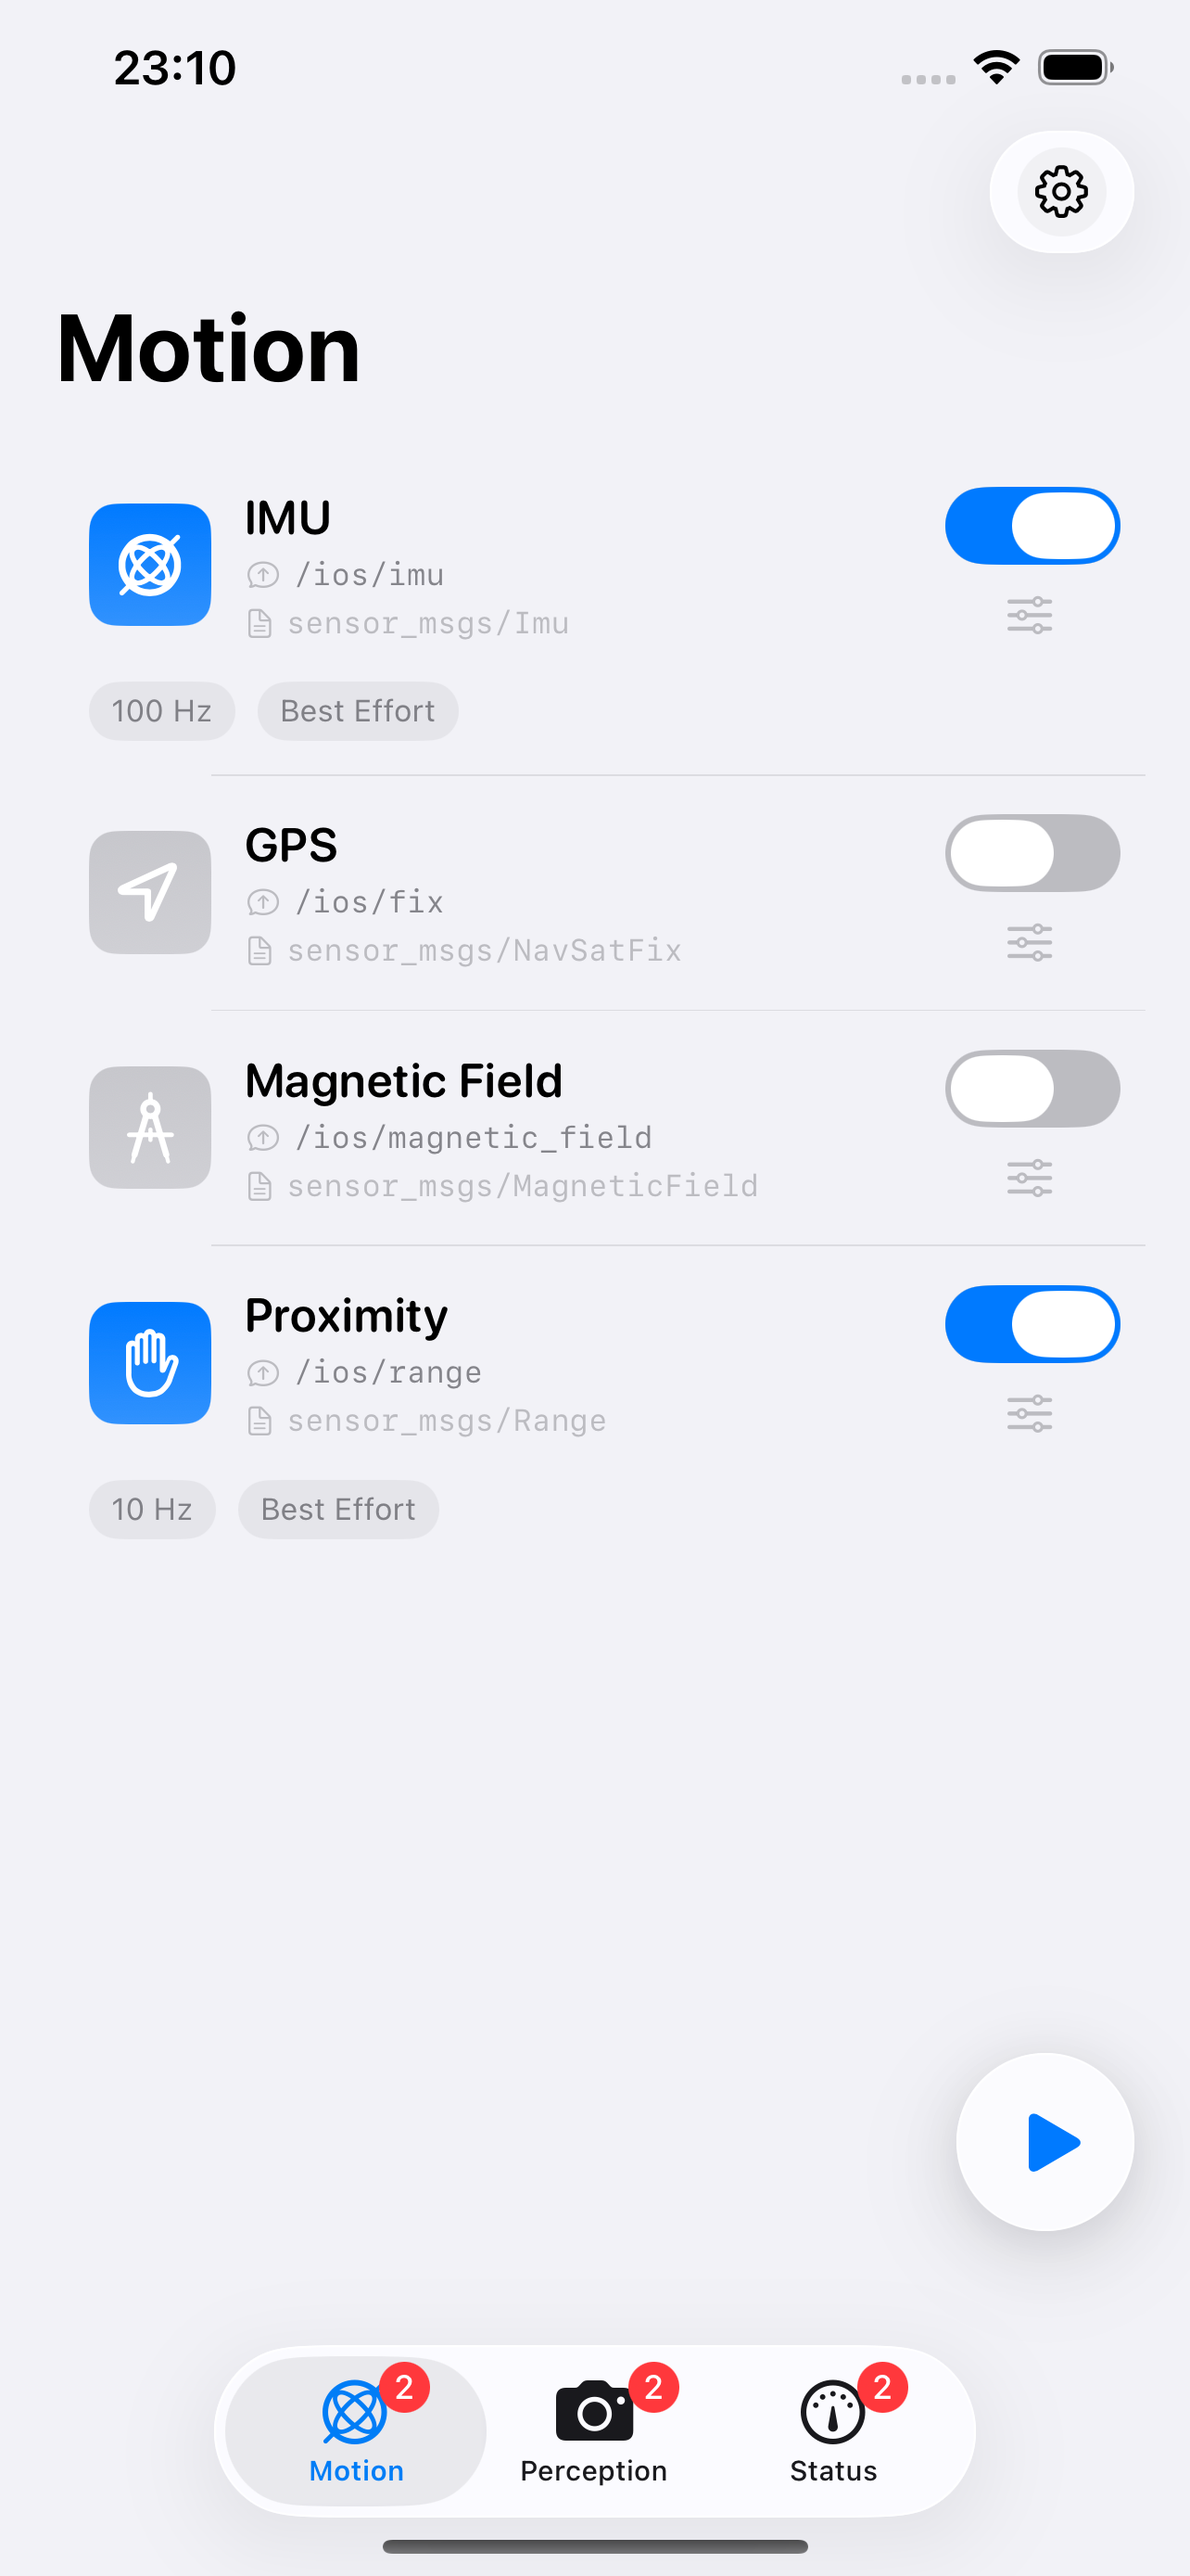
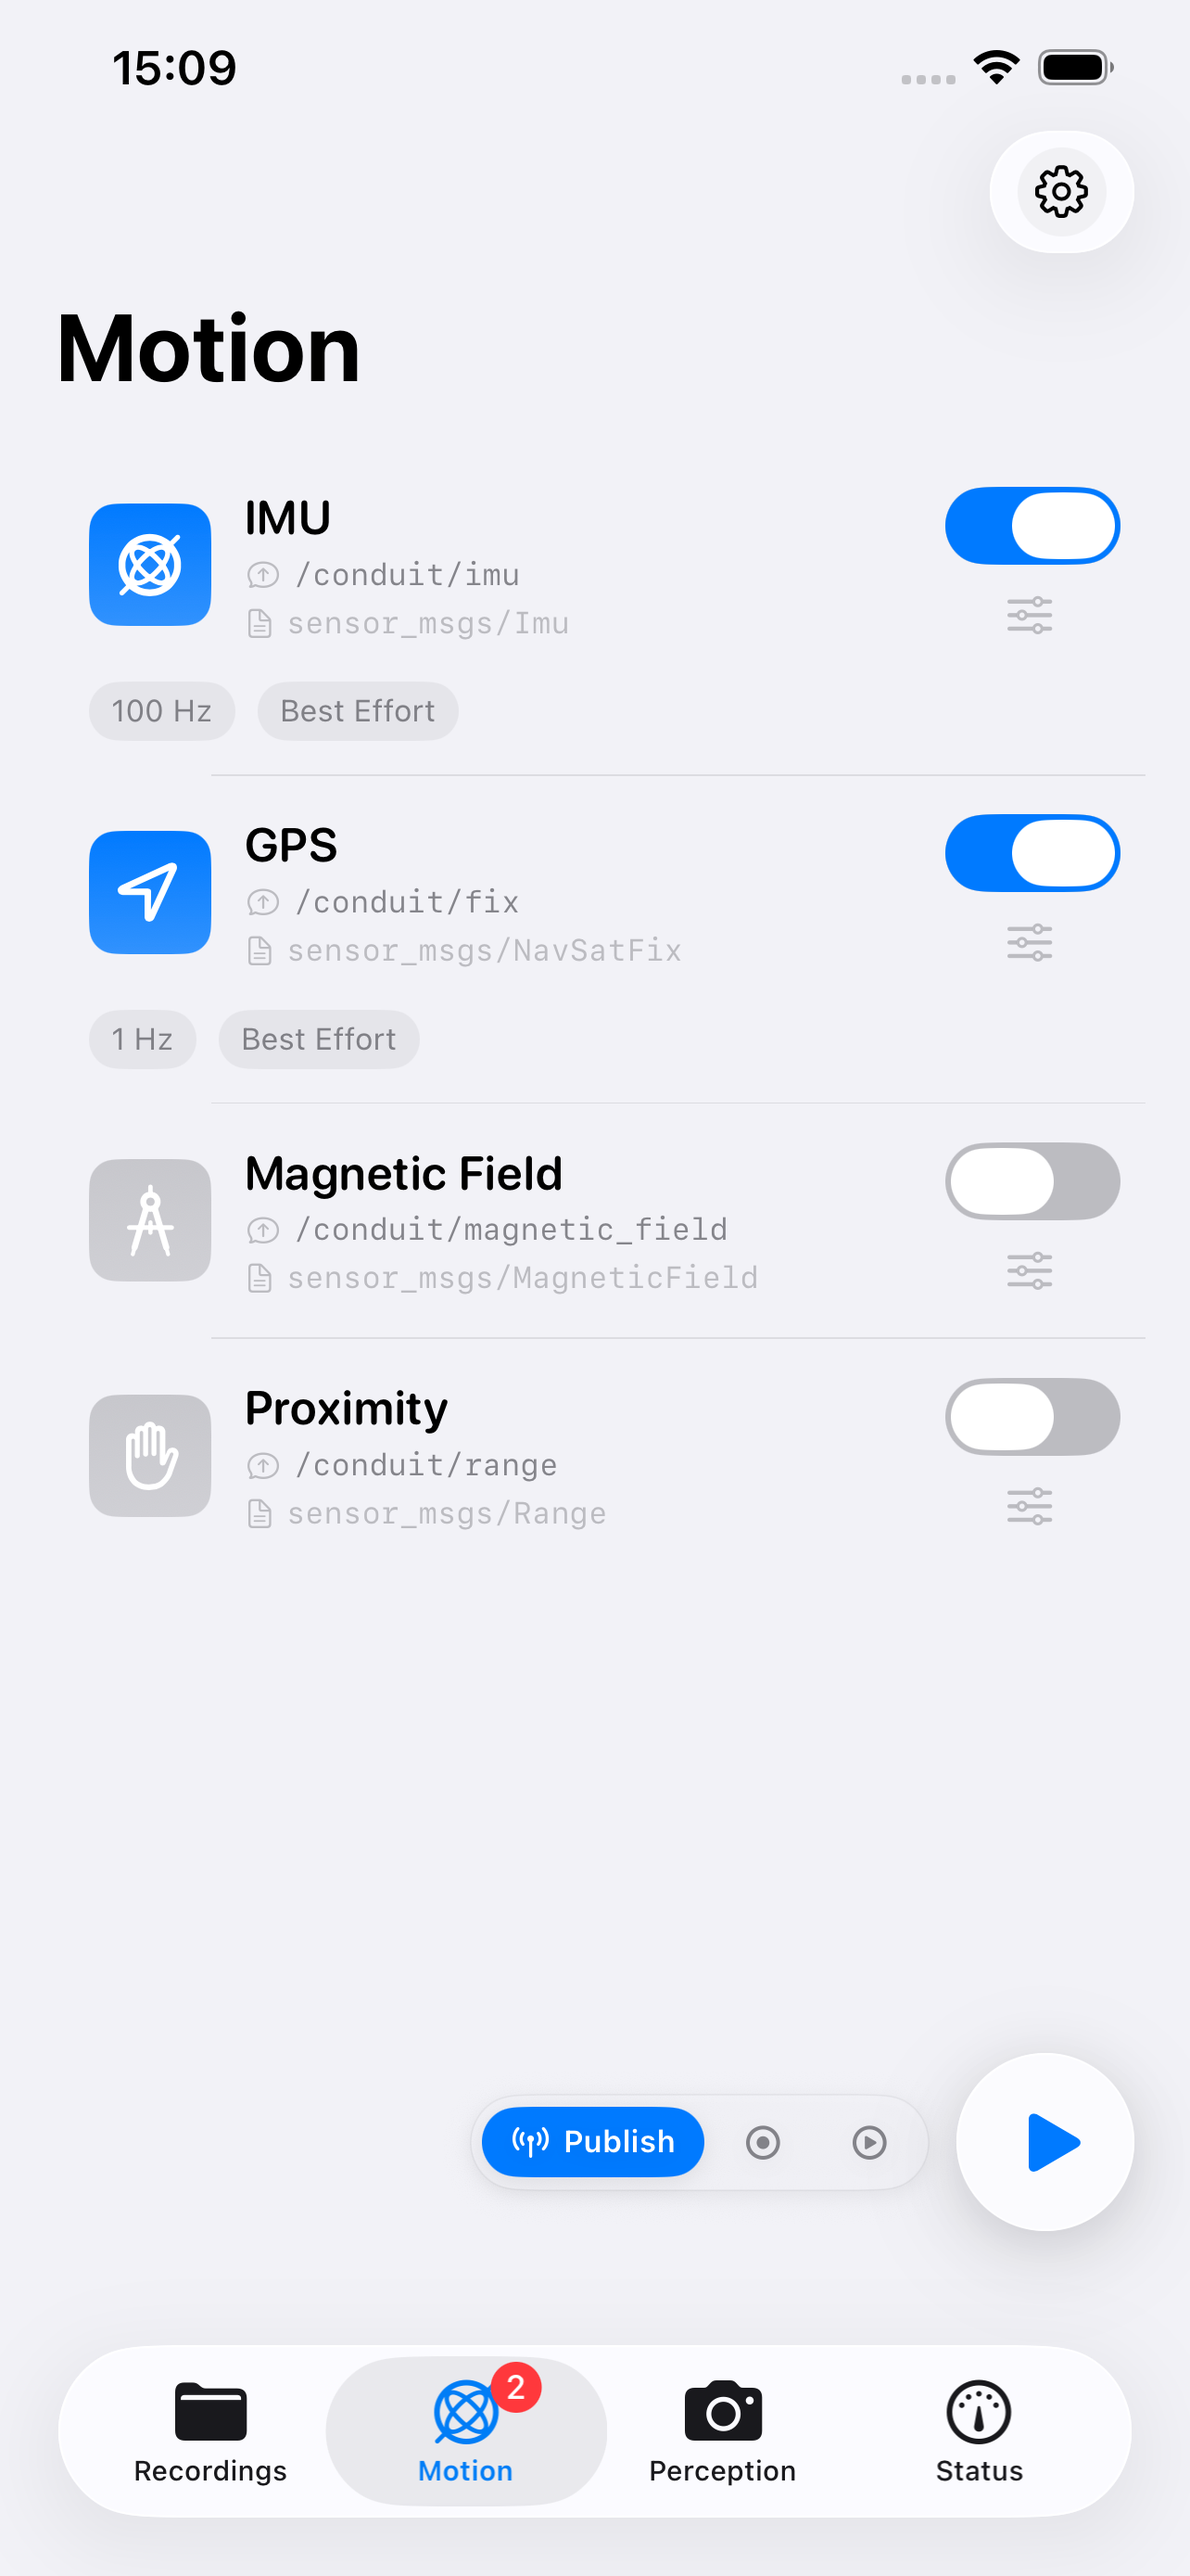
docs: refresh screenshots and tab layout for Conduit 2.2.1
- Add Recordings as a fourth main tab (MCAP capture surfaced from the
  bottom bar).
- Replace the old 3-step "start the Zenoh router" onboarding with the
  current Setup Communication / Switch Transport / Publish-or-Record
  flow, which covers both Zenoh and DDS.
- Refresh Motion / Perception / Status screenshots to match the 2.2.1 UI
  (Proximity is now under Motion, Microphone under Perception, Game
  Controller under Status).
- Add the new Settings screenshot with the Transport picker, Domain ID,
  Device IP, and Zenoh Router fields.
- Drop the obsolete onboarding1/2/3.png assets.
- Fix sensor rates: Camera and LiDAR publish at 30 Hz (not 15 / 10);
  move Microphone into Perception to match the tab grouping.

diff --git a/README.md b/README.md
@@ -78,9 +78,9 @@ See [TRANSPORTS.md](docs/TRANSPORTS.md) for a detailed comparison.
 ### 12 Sensor Types
 
 - **Motion**: IMU (100Hz) · Magnetometer (100Hz) · GPS (1Hz) · Proximity (10Hz)
-- **Perception**: Camera (15Hz) · LiDAR (10Hz)
+- **Perception**: Camera (30Hz) · LiDAR (30Hz) · Microphone (`audio_common_msgs/AudioData`, streaming)
 - **Environment**: Barometer (10Hz) · Illuminance (10Hz) · Thermal (1Hz)
-- **Input**: Game Controller (50Hz) · Microphone (`audio_common_msgs/AudioData`, streaming)
+- **Input**: Game Controller (50Hz)
 - **Status**: Battery (1Hz)
 
 ### MCAP Recording
@@ -97,51 +97,56 @@ A core slice (IMU, Magnetometer, GPS, Proximity, Barometer, Illuminance, Thermal
 
 ## Screenshots
 
-### Sensor Tabs
+### Main Tabs
 
 <table>
 <tr>
 <td align="center" width="25%">
 <img src="images/motion-enabled.png" width="180" alt="Motion Sensors"><br>
 <b>Motion</b><br>
-<sub>IMU, GPS, Magnetometer, Proximity</sub>
+<sub>IMU, GPS, Magnetic Field, Proximity</sub>
 </td>
 <td align="center" width="25%">
 <img src="images/perception-enabled.png" width="180" alt="Perception Sensors"><br>
 <b>Perception</b><br>
-<sub>Camera, LiDAR</sub>
+<sub>Microphone, Cameras, LiDAR</sub>
 </td>
 <td align="center" width="25%">
 <img src="images/status-enabled.png" width="180" alt="Status Sensors"><br>
 <b>Status</b><br>
-<sub>Battery, Thermal, Barometer, etc.</sub>
+<sub>Battery, Thermal, Barometer, Illuminance, Game Controller</sub>
 </td>
 <td align="center" width="25%">
-<img src="images/settings.png" width="180" alt="Settings"><br>
-<b>Settings</b><br>
-<sub>Router, Node, ROS 2 Distribution</sub>
+<img src="images/recordings.png" width="180" alt="Recordings"><br>
+<b>Recordings</b><br>
+<sub>MCAP bags — record alongside or instead of live publishing</sub>
 </td>
 </tr>
 </table>
 
-### Getting Started
+### Onboarding & Settings
 
 <table>
 <tr>
 <td align="center" width="25%">
-<img src="images/onboarding1.png" width="180" alt="Step 1: Start Router"><br>
-<b>1. Start Zenoh Router</b><br>
-<sub>Run rmw_zenohd on your ROS 2 system</sub>
+<img src="images/setup-communication.png" width="180" alt="Setup Communication"><br>
+<b>1. Setup Communication</b><br>
+<sub>Pick Zenoh or DDS, follow the host-side recipe</sub>
 </td>
 <td align="center" width="25%">
-<img src="images/onboarding2.png" width="180" alt="Step 2: Connect"><br>
-<b>2. Connect to Router</b><br>
-<sub>Enter IP address and port</sub>
+<img src="images/switch-transport.png" width="180" alt="Switch Transport Anytime"><br>
+<b>2. Switch Transport Anytime</b><br>
+<sub>Change transport, router, or discovery later from Settings</sub>
 </td>
 <td align="center" width="25%">
-<img src="images/onboarding3.png" width="180" alt="Step 3: Publish"><br>
-<b>3. Start Publishing</b><br>
-<sub>Select sensors and stream to ROS 2</sub>
+<img src="images/start-publishing.png" width="180" alt="Start Publishing or Recording"><br>
+<b>3. Publish or Record</b><br>
+<sub>Tap Play to stream, or Record to save an MCAP file</sub>
+</td>
+<td align="center" width="25%">
+<img src="images/settings.png" width="180" alt="Settings"><br>
+<b>Settings</b><br>
+<sub>Transport, Domain ID, Device IP, Router address</sub>
 </td>
 </tr>
 </table>
